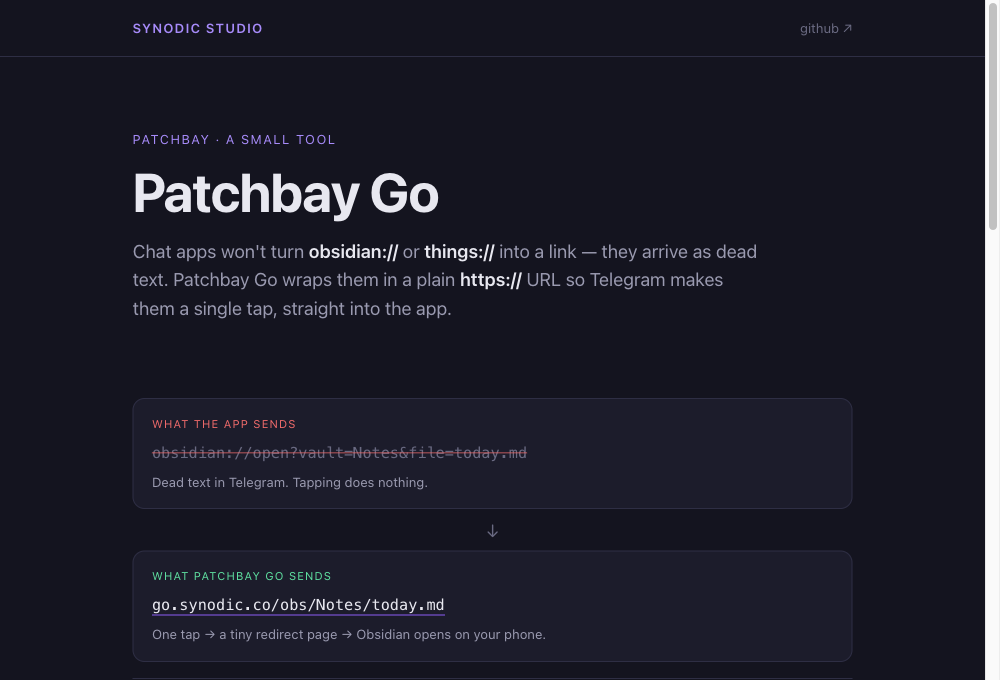
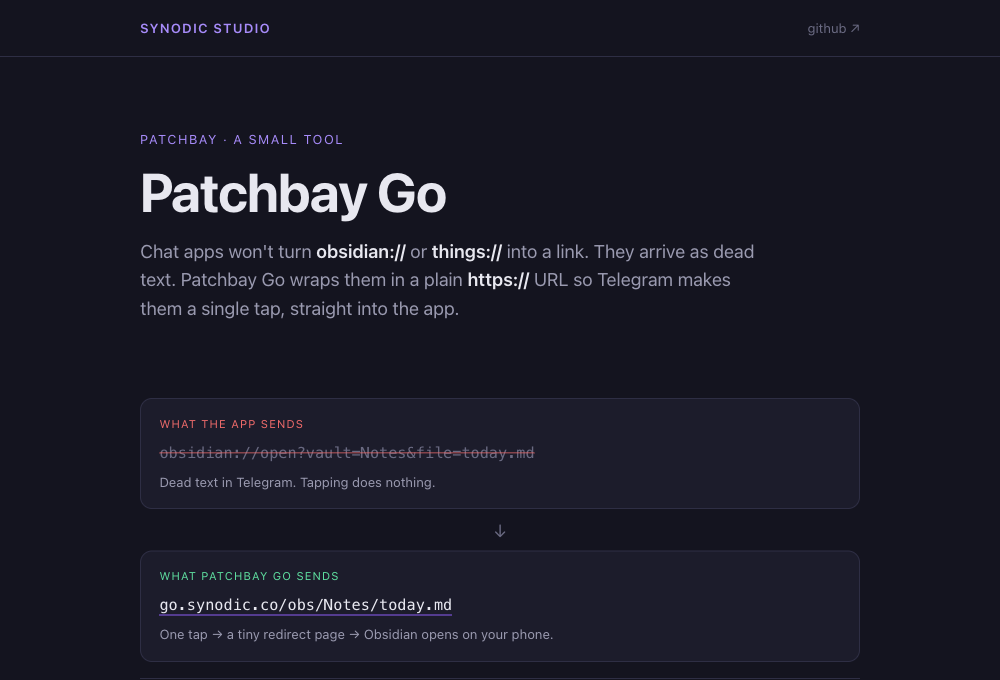
Cut the em dashes; reframe self-hosting around owning the domain and data
Route descriptions in APP_ROUTES use a colon instead, and the prose across
the README, DEPLOYING, the skill, the billboard, the worker comments, and the
client docstring is repunctuated with periods, colons, and parens. The deploy
pitch no longer opens by talking down the hosted instance. Screenshots in the
README are plain markdown on one line, and the landing shot is recaptured
against the updated copy.

diff --git a/src/worker.js b/src/worker.js
@@ -42,7 +42,7 @@
 /**
  * Named routes for popular apps so callers rarely need /raw. Each maps a short
  * path segment to a custom-scheme prefix; `/things/Buy%20milk` becomes
- * `things:///add?title=Buy%20milk`. Only *custom* schemes belong here — apps
+ * `things:///add?title=Buy%20milk`. Only *custom* schemes belong here; apps
  * that open via an https universal link (Maps, Spotify web, ...) need no
  * wrapping. Routes are safe by construction (fixed prefix + encoded tail), so
  * they skip the isSafeScheme check that /raw needs.
@@ -55,97 +55,97 @@ const APP_ROUTES = {
     prefix: "things:///add?title=",
     label: "Things",
     param: "title",
-    opens: "Things — quick-add a to-do",
+    opens: "Things: quick-add a to-do",
   },
   shortcuts: {
     prefix: "shortcuts://run-shortcut?name=",
     label: "Shortcuts",
     param: "name",
-    opens: "Shortcuts — run a shortcut by name",
+    opens: "Shortcuts: run a shortcut by name",
   },
   bear: {
     prefix: "bear://x-callback-url/create?title=",
     label: "Bear",
     param: "title",
-    opens: "Bear — new note",
+    opens: "Bear: new note",
   },
   drafts: {
     prefix: "drafts://x-callback-url/create?text=",
     label: "Drafts",
     param: "text",
-    opens: "Drafts — new draft",
+    opens: "Drafts: new draft",
   },
   ulysses: {
     prefix: "ulysses://x-callback-url/new-sheet?text=",
     label: "Ulysses",
     param: "text",
-    opens: "Ulysses — new sheet",
+    opens: "Ulysses: new sheet",
   },
   todoist: {
     prefix: "todoist://addtask?content=",
     label: "Todoist",
     param: "content",
-    opens: "Todoist — add a task",
+    opens: "Todoist: add a task",
   },
   omnifocus: {
     prefix: "omnifocus:///add?name=",
     label: "OmniFocus",
     param: "name",
-    opens: "OmniFocus — add a task",
+    opens: "OmniFocus: add a task",
   },
   due: {
     prefix: "due://x-callback-url/add?title=",
     label: "Due",
     param: "title",
-    opens: "Due — new reminder",
+    opens: "Due: new reminder",
   },
   fantastical: {
     prefix: "x-fantastical3://parse?sentence=",
     label: "Fantastical",
     param: "sentence",
-    opens: "Fantastical — new event from natural language",
+    opens: "Fantastical: new event from natural language",
   },
   twitter: {
     prefix: "twitter://user?screen_name=",
     label: "X (Twitter)",
     param: "handle",
-    opens: "X — open a profile",
+    opens: "X: open a profile",
   },
   instagram: {
     prefix: "instagram://user?username=",
     label: "Instagram",
     param: "username",
-    opens: "Instagram — open a profile",
+    opens: "Instagram: open a profile",
   },
   telegram: {
     prefix: "tg://resolve?domain=",
     label: "Telegram",
     param: "username",
-    opens: "Telegram — open a user or channel",
+    opens: "Telegram: open a user or channel",
   },
   whatsapp: {
     prefix: "whatsapp://send?phone=",
     label: "WhatsApp",
     param: "phone",
-    opens: "WhatsApp — message a phone number",
+    opens: "WhatsApp: message a phone number",
   },
   googlemaps: {
     prefix: "comgooglemaps://?q=",
     label: "Google Maps",
     param: "query",
-    opens: "Google Maps — search a place",
+    opens: "Google Maps: search a place",
   },
   waze: {
     prefix: "waze://?q=",
     label: "Waze",
     param: "address",
-    opens: "Waze — navigate to an address",
+    opens: "Waze: navigate to an address",
   },
   zoom: {
     prefix: "zoommtg://zoom.us/join?confno=",
     label: "Zoom",
     param: "meeting-id",
-    opens: "Zoom — join a meeting by ID",
+    opens: "Zoom: join a meeting by ID",
   },
 
   // Launchers: no argument, just open the app. `bare` ignores the path tail.
@@ -311,7 +311,7 @@ export default {
  * Encode a string as a JS string literal safe to embed inside an inline
  * <script>. JSON.stringify alone does not neutralize "</script>" (or the
  * JS-string-breaking line separators U+2028/U+2029), so a /raw value such as
- * `x://</script><img onerror=...>` — whose scheme passes isSafeScheme — would
+ * `x://</script><img onerror=...>`, whose scheme passes isSafeScheme, would
  * otherwise break out of the script tag and execute (reflected XSS).
  * @param {string} str
  * @returns {string}
@@ -397,7 +397,7 @@ function usagePage(host) {
 <head>
   <meta charset="utf-8">
   <meta name="viewport" content="width=device-width, initial-scale=1">
-  <title>Patchbay Go — Synodic Studio</title>
+  <title>Patchbay Go · Synodic Studio</title>
   <style>
     body {
       font-family: -apple-system, system-ui, sans-serif;
@@ -427,7 +427,7 @@ function usagePage(host) {
 <body>
   <a class="brand" href="https://synodic.co">Synodic Studio</a>
   <h1>Patchbay Go</h1>
-  <p class="lede">A tiny link relay. It wraps native app links (<code>obsidian://</code>, <code>calshow:</code>, and friends) in plain <code>https://</code> so chat apps render them as tappable — tap on the go, the app opens.</p>
+  <p class="lede">A tiny link relay. It wraps native app links (<code>obsidian://</code>, <code>calshow:</code>, and friends) in plain <code>https://</code> so chat apps render them as tappable. Tap on the go, the app opens.</p>
   <a class="cta" href="https://synodic.co">Made by Synodic Studio →</a>
   <h2>Routes</h2>
   <table>
@@ -451,7 +451,7 @@ ${h}/remind/Buy%20groceries
 ${h}/cal/2026-03-15
 ${h}/cal/2026-03-15/14:00
 ${h}/raw/dGhpbmdzOi8vLw</pre>
-  <footer>Part of the <a href="https://synodic.co">Synodic</a> Patchbay family — small tools that connect a phone to a host that runs agents and apps.</footer>
+  <footer>Part of the <a href="https://synodic.co">Synodic</a> Patchbay family. Small tools that connect a phone to a host that runs agents and apps.</footer>
 </body>
 </html>`;
 }
@@ -503,7 +503,7 @@ const BLOCKED_SCHEMES = new Set([
  * A /raw URI is safe to redirect to only if it carries an explicit scheme
  * that the browser passes through to the OS (obsidian:, things:, ...) rather
  * than one the browser evaluates itself. Anything without a clean `scheme:`
- * prefix, or whose scheme is browser-privileged, is rejected — fail closed.
+ * prefix, or whose scheme is browser-privileged, is rejected: fail closed.
  * @param {string} uri
  * @returns {boolean}
  */
@@ -565,7 +565,7 @@ function parseTokenRecord(raw) {
 }
 
 /**
- * POST /key/register — an agent's opening handshake. It supplies a label, its
+ * POST /key/register, an agent's opening handshake. It supplies a label, its
  * RSA-OAEP public key, and an optional https webhook; no secret exists yet.
  * The public key is required and is imported here to validate it.
  * @param {Request} request
@@ -671,7 +671,7 @@ async function handleKeyVaultE2E(request, env, token, record, ctx) {
 }
 
 /**
- * GET /key/<uuid>/result — one-shot retrieval of the stored ciphertext
+ * GET /key/<uuid>/result, one-shot retrieval of the stored ciphertext
  * envelope for agents that cannot receive a webhook. Deleted on read.
  * @param {Env} env
  * @param {string} uuid
@@ -694,7 +694,7 @@ async function handleKeyResult(env, uuid) {
 
 /**
  * Structural check that a submission is a real hybrid RSA-OAEP+AES-GCM
- * envelope for the token's key — the wrapped AES key must be exactly the RSA
+ * envelope for the token's key: the wrapped AES key must be exactly the RSA
  * modulus length, with a 12-byte IV and a GCM-tagged ciphertext. This can't
  * cryptographically prove encryption (the worker holds no private key by
  * design), but it rejects plaintext and malformed bodies.
@@ -851,7 +851,7 @@ function keyFormPageE2E(label, publicKeyB64) {
 <head>
   <meta charset="utf-8">
   <meta name="viewport" content="width=device-width, initial-scale=1">
-  <title>Encrypted paste — ${escapeHtml(label)}</title>
+  <title>Encrypted paste · ${escapeHtml(label)}</title>
   <style>
     body { font-family: -apple-system, system-ui, sans-serif; display: flex; align-items: center; justify-content: center; min-height: 100vh; margin: 0; background: #1a1a2e; color: #e0e0e0; }
     .card { width: 90%; max-width: 420px; padding: 2rem; }

diff --git a/website/index.html b/website/index.html
@@ -3,7 +3,7 @@
 <head>
 <meta charset="utf-8">
 <meta name="viewport" content="width=device-width, initial-scale=1">
-<title>Patchbay Go — tappable links into your apps</title>
+<title>Patchbay Go · tappable links into your apps</title>
 <meta name="description" content="A tiny relay that wraps obsidian://, things://, calshow: and friends in plain https links, so Telegram and other chat apps render them as a single tap straight into the native app.">
 <meta property="og:title" content="Patchbay Go">
 <meta property="og:description" content="Wraps native app URL schemes in https links so chat apps make them tappable.">
@@ -107,7 +107,7 @@
   <div class="hero">
     <p class="kicker">Patchbay · a small tool</p>
     <h1>Patchbay&nbsp;Go</h1>
-    <p class="lede">Chat apps won't turn <b>obsidian://</b> or <b>things://</b> into a link — they arrive as dead text. Patchbay Go wraps them in a plain <b>https://</b> URL so Telegram makes them a single tap, straight into the app.</p>
+    <p class="lede">Chat apps won't turn <b>obsidian://</b> or <b>things://</b> into a link. They arrive as dead text. Patchbay Go wraps them in a plain <b>https://</b> URL so Telegram makes them a single tap, straight into the app.</p>
   </div>
 
   <div class="demo">
@@ -146,14 +146,14 @@
       <div class="cell"><div class="r"><b>/fantastical</b>/&lt;sentence&gt;</div><div class="o">Fantastical event</div></div>
       <div class="cell"><div class="r"><b>/raw</b>/&lt;base64url&gt;</div><div class="o">any native scheme</div></div>
     </div>
-    <p class="apps">…plus <code>/todoist</code>, <code>/bear</code>, <code>/drafts</code>, <code>/shortcuts</code>, <code>/whatsapp</code>, <code>/telegram</code>, <code>/googlemaps</code>, <code>/waze</code>, <code>/zoom</code> and launchers like <code>/slack</code> and <code>/music</code>. A language model writes <span class="mono">go.synodic.co/things/Buy%20milk</span> correctly on the first try; <code>/raw</code> covers the long tail — and refuses browser-privileged schemes, so a wrapped link can only ever open a native app, never run in the browser.</p>
+    <p class="apps">…plus <code>/todoist</code>, <code>/bear</code>, <code>/drafts</code>, <code>/shortcuts</code>, <code>/whatsapp</code>, <code>/telegram</code>, <code>/googlemaps</code>, <code>/waze</code>, <code>/zoom</code> and launchers like <code>/slack</code> and <code>/music</code>. A language model writes <span class="mono">go.synodic.co/things/Buy%20milk</span> correctly on the first try; <code>/raw</code> covers the long tail, and refuses browser-privileged schemes, so a wrapped link can only ever open a native app, never run in the browser.</p>
   </section>
 
   <section>
     <h2>One secret, without a chat log</h2>
     <div class="callout">
       <h3>The <span class="mono">/key</span> paste form</h3>
-      <p>An agent sends a <span class="mono">/key/&lt;uuid&gt;</span> link. Tap it, paste an API key into a small labeled form, and it is <strong>encrypted in your browser</strong> — to the agent's own key — before it's sent. The relay only ever stores ciphertext and never holds the key to read it; the agent decrypts it on its own machine. A quiet way to move a secret into your automation without it ever sitting in a chat, or in anyone else's hands.</p>
+      <p>An agent sends a <span class="mono">/key/&lt;uuid&gt;</span> link. Tap it, paste an API key into a small labeled form, and it is <strong>encrypted in your browser</strong>, to the agent's own key, before it's sent. The relay only ever stores ciphertext and never holds the key to read it; the agent decrypts it on its own machine. A quiet way to move a secret into your automation without it ever sitting in a chat, or in anyone else's hands.</p>
     </div>
   </section>
 
@@ -162,7 +162,7 @@
 <footer>
   <div class="wrap">
     <a class="fcta" href="https://synodic.co">Made by Synodic Studio →</a>
-    <p class="fmeta">Part of the <a href="https://synodic.co/patchbay/">Patchbay</a> family — small tools that connect a phone chat app to a host that runs agents and apps. Open source, MIT · <a href="https://github.com/synodic-studio/patchbay-go">source on GitHub</a>.</p>
+    <p class="fmeta">Part of the <a href="https://synodic.co/patchbay/">Patchbay</a> family. Small tools that connect a phone chat app to a host that runs agents and apps. Open source, MIT · <a href="https://github.com/synodic-studio/patchbay-go">source on GitHub</a>.</p>
   </div>
 </footer>
 

diff --git a/clients/patchbay_key.py b/clients/patchbay_key.py
@@ -3,10 +3,10 @@
 # requires-python = ">=3.11"
 # dependencies = ["cryptography>=42", "certifi"]
 # ///
-"""Patchbay Go — end-to-end secret intake client.
+"""Patchbay Go: end-to-end secret intake client.
 
 Move a secret (API key, password, OTP) into an agent without it ever touching a
-chat log — and without the worker ever seeing the plaintext. The worker only
+chat log, and without the worker ever seeing the plaintext. The worker only
 stores ciphertext; the private key never leaves this machine.
 
     patchbay_key.py register <service> [--webhook URL]

diff --git a/README.md b/README.md
@@ -1,8 +1,8 @@
 # Patchbay Go
 
-Chat apps only linkify `http(s)`. Paste `obsidian://open?vault=Notes&file=today.md` into Telegram and it arrives as dead text — your phone is holding a perfectly good URI it refuses to make tappable.
+Chat apps only linkify `http(s)`. Paste `obsidian://open?vault=Notes&file=today.md` into Telegram and it arrives as dead text. Your phone is holding a perfectly good URI it refuses to make tappable.
 
-Patchbay Go is a tiny redirector that fixes that. Send `https://go.synodic.co/obs/Notes/today.md` instead: the chat app linkifies it, the tap opens a browser, and the browser — where custom schemes *are* allowed — hands off to `obsidian://`. One hop, a fraction of a second, and the app opens.
+Patchbay Go is a tiny redirector that fixes that. Send `https://go.synodic.co/obs/Notes/today.md` instead: the chat app linkifies it, the tap opens a browser, and the browser, where custom schemes *are* allowed, hands off to `obsidian://`. One hop, a fraction of a second, and the app opens.
 
 ![The deployed landing page, contrasting a dead obsidian:// URI in a chat message with the tappable https link that replaces it](docs/screenshots/landing.png)
 
@@ -10,7 +10,7 @@ This is part of the [Patchbay](https://github.com/synodic-studio/patchbay-relay)
 
 ## Use it
 
-There is nothing to install and no account to make. **`https://go.synodic.co` is live and open** — build a URL and send it:
+There is nothing to install and no account to make. **`https://go.synodic.co` is live and open.** Build a URL and send it:
 
 ```
 https://go.synodic.co/obs/MyVault/notes/today.md
@@ -18,23 +18,20 @@ https://go.synodic.co/things/Buy%20milk
 https://go.synodic.co/cal/2026-03-14
 ```
 
-It is offered as-is, on a free tier, with no uptime promise. If you would rather not depend on someone else's host — or you want the `/key` vault, which stores data — [deploy your own](DEPLOYING.md). It is one file and a `wrangler` command.
+Or [run your own](DEPLOYING.md), which is one file and a `wrangler` command. Then the domain is yours, the link prefix is yours, and the `/key` ciphertext sits in your own KV namespace instead of someone else's.
 
 Worth knowing before you rely on it:
 
 - **No auth, no logging, no state.** Every route is a pure function of the URL. The only storage anywhere is the optional KV namespace behind `/key`, and that holds ciphertext with a ten-minute TTL.
 - **A wrapped link can only ever open a native app.** `/raw` refuses browser-privileged schemes (`javascript:`, `data:`, `http(s):`, …), so a link built by someone else cannot run in your browser.
-- **The redirect is not a guarantee the app opens.** If the target app is not installed, you land on the fallback page and nothing happens. There is no error to catch — that is the platform's behavior, not the worker's.
+- **The redirect is not a guarantee the app opens.** If the target app is not installed, you land on the fallback page and nothing happens. There is no error to catch: that is the platform's behavior, not the worker's.
 - **Host-agnostic.** Nothing is hardcoded to a domain; a deployment serves the same routes and advertises its own hostname.
 
 ## What a tap looks like
 
 The redirect page is the entire user-facing surface of a wrapped link: it flashes by on the way into the app, and only lingers if the app is not installed. The `/key` form is the one page that asks for input.
 
-<p>
-  <img src="docs/screenshots/redirect.png" alt="The redirect page: a spinner over the text &quot;Opening today.md in Obsidian&quot;, with a manual tap-through link below it" width="340">
-  <img src="docs/screenshots/key-form.png" alt="The /key paste form: a labeled field reading &quot;OpenAI API key&quot;, a paste box, and an &quot;Encrypt &amp; send&quot; button" width="340">
-</p>
+![The redirect page: a spinner over the text "Opening today.md in Obsidian", with a manual tap-through link below it](docs/screenshots/redirect.png) ![The /key paste form: a labeled field reading "OpenAI API key", a paste box, and an "Encrypt & send" button](docs/screenshots/key-form.png)
 
 ## Routes
 
@@ -62,7 +59,7 @@ Common apps get named routes, so callers rarely need `/raw`. Content routes take
 
 Launchers take no argument and just open the app: `/music`, `/podcasts`, `/overcast`, `/soundcloud`, `/slack`, `/discord`, `/reddit`, `/linkedin`.
 
-Because the path is plain and predictable, a language model writes `go.synodic.co/things/Buy%20milk` correctly on the first try — which is the point, since agents are the main callers. The live list renders on the `/` page of any deployment; the single source of truth is `APP_ROUTES` in `src/worker.js`, and adding an app is one entry.
+Because the path is plain and predictable, a language model writes `go.synodic.co/things/Buy%20milk` correctly on the first try. That is the point, since agents are the main callers. The live list renders on the `/` page of any deployment; the single source of truth is `APP_ROUTES` in `src/worker.js`, and adding an app is one entry.
 
 For any scheme not listed, base64url-encode the full URI and use `/raw`:
 
@@ -74,7 +71,7 @@ https://go.synodic.co/raw/dGhpbmdzOi8vLw       # → things:///
 
 An agent needs your API key. Pasting it into the chat means it lives in the chat history, on a server, forever. `/key` is the way around that.
 
-The agent generates a keypair and registers its **public** key, which yields a one-time `https://<host>/key/<uuid>` link. You open it, paste the secret into the form, and the page encrypts it *in your browser* — AES-GCM, wrapped to the agent's RSA-OAEP key — before anything is sent. The worker only ever stores ciphertext and never holds a key that could read it. The agent fetches the envelope and decrypts it on its own machine, where its private key never left.
+The agent generates a keypair and registers its **public** key, which yields a one-time `https://<host>/key/<uuid>` link. You open it, paste the secret into the form, and the page encrypts it *in your browser* (AES-GCM, wrapped to the agent's RSA-OAEP key) before anything is sent. The worker only ever stores ciphertext and never holds a key that could read it. The agent fetches the envelope and decrypts it on its own machine, where its private key never left.
 
 ```
 POST /key/register  {label, publicKey, webhook?}  -> {uuid, secret, url}
@@ -90,7 +87,7 @@ uv run clients/patchbay_key.py register my-service   # prints the tappable link
 uv run clients/patchbay_key.py fetch my-service      # decrypts into `pass`
 ```
 
-These routes are the only part that needs storage, so they only work on a deployment with a KV namespace bound — see [DEPLOYING.md](DEPLOYING.md). Without the binding, `/key/*` returns 400 and every other route still works.
+These routes are the only part that needs storage, so they only work on a deployment with a KV namespace bound; see [DEPLOYING.md](DEPLOYING.md). Without the binding, `/key/*` returns 400 and every other route still works.
 
 ## Pointing a Patchbay host at your domain
 

diff --git a/DEPLOYING.md b/DEPLOYING.md
@@ -1,8 +1,8 @@
 # Deploying your own
 
-`https://go.synodic.co` is open to use as-is, but it is one person's free-tier deployment. Run your own if you want a domain you control, or if you want the `/key` vault, which is the only part that stores anything.
+Running your own gets you the domain and the data: your Cloudflare account, your link prefix, your KV namespace. Nothing routes through anyone else's host, which matters most for `/key`, the one route that stores anything.
 
-Patchbay Go runs as a **Cloudflare Pages** project in direct-upload advanced mode: the build step copies `src/worker.js` to `dist/_worker.js`, and Pages runs it as the function in front of the static assets. It is not a Workers deployment, and the distinction matters for `wrangler.toml` — a Workers-shaped config will fail here.
+Patchbay Go runs as a **Cloudflare Pages** project in direct-upload advanced mode: the build step copies `src/worker.js` to `dist/_worker.js`, and Pages runs it as the function in front of the static assets. It is not a Workers deployment, and the distinction matters for `wrangler.toml`. A Workers-shaped config will fail here.
 
 You need a Cloudflare account and the [Wrangler CLI](https://developers.cloudflare.com/workers/wrangler/install-and-update/).
 
@@ -14,7 +14,7 @@ cp wrangler.example.toml wrangler.toml   # edit the project name to taste
 npm run deploy                           # build + wrangler pages deploy dist
 ```
 
-`npm run deploy` runs `wrangler pages deploy dist --project-name <name> --branch main`. The first deploy gives you `https://<name>.pages.dev`, which already works — every route is live on it.
+`npm run deploy` runs `wrangler pages deploy dist --project-name <name> --branch main`. The first deploy gives you `https://<name>.pages.dev`, which already works. Every route is live on it.
 
 `wrangler.toml` is gitignored, because the project name and KV namespace id are environment state rather than source. `wrangler.example.toml` is the template.
 
@@ -30,7 +30,7 @@ The token needs **Cloudflare Pages: Edit**. If you also attach a custom domain, 
 
 ## A short custom domain
 
-Strongly recommended — the whole point is a link that looks harmless in a chat, and `go.example.com/obs/…` reads better than a `pages.dev` subdomain. Attach the domain to the Pages project, then point DNS at it:
+Strongly recommended: the whole point is a link that looks harmless in a chat, and `go.example.com/obs/…` reads better than a `pages.dev` subdomain. Attach the domain to the Pages project, then point DNS at it:
 
 ```bash
 curl -H "Authorization: Bearer $CF_TOKEN" -X POST \

diff --git a/skills/patchbay-go/SKILL.md b/skills/patchbay-go/SKILL.md
@@ -22,7 +22,7 @@ https://go.synodic.co/key/<uuid>                → end-to-end encrypted secret 
 
 The first `/obs/` segment is the Obsidian vault name; everything after it is the vault-relative file path.
 
-To collect a secret (API key, password) without it touching the chat log, use the `/key` flow via the reference client — it encrypts in the browser and the worker never sees the plaintext:
+To collect a secret (API key, password) without it touching the chat log, use the `/key` flow via the reference client. It encrypts in the browser and the worker never sees the plaintext:
 
 ```
 uv run <patchbay-go>/clients/patchbay_key.py register <service>   # prints the link
@@ -50,7 +50,7 @@ Launchers (just open the app, no argument):
 
 The live, authoritative list renders on `https://go.synodic.co/` (single source of truth is `APP_ROUTES` in the patchbay-go worker). For any scheme not covered, base64url-encode the full URI and use `/raw/<base64url>`.
 
-Note: a named route with a wrong or stale scheme prefix produces a link that redirects but silently opens nothing — no error. If an app doesn't open, fall back to `/raw` with the correct scheme.
+Note: a named route with a wrong or stale scheme prefix produces a link that redirects but silently opens nothing, with no error. If an app doesn't open, fall back to `/raw` with the correct scheme.
 
 ## Notes
 
